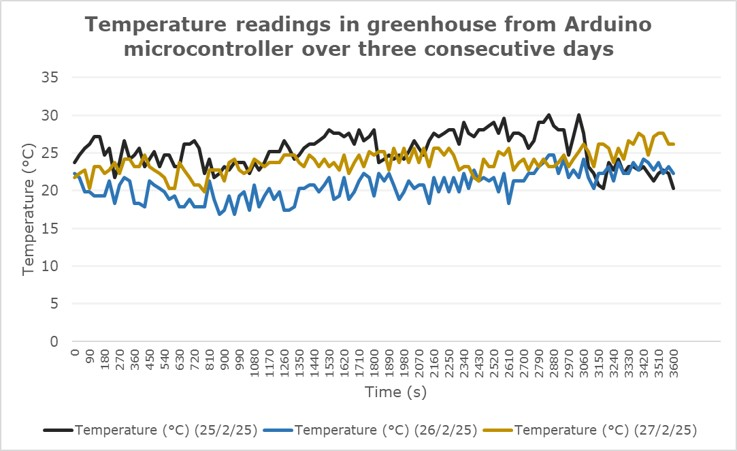
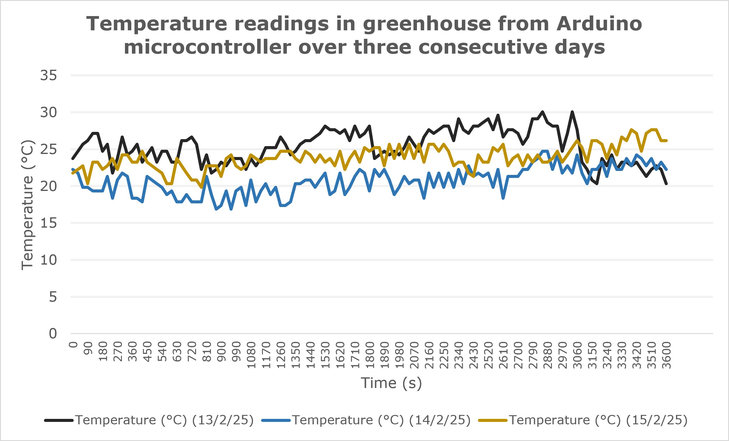
Revised file information for tutorial

diff --git a/README.md b/README.md
@@ -208,7 +208,7 @@ Try it yourself with a raw reading of 153:
 
 ## Look closely at the data
 
-Open `data/arduino_readings_2025-02-26.csv`. Look at the temperature column. The values do not change smoothly: neighbouring values are always about 0.49 °C apart, for example 17.38, 17.87 and 18.36.
+Open `data/arduino_readings_2025-02-14.csv`. Look at the temperature column. The values do not change smoothly: neighbouring values are always about 0.49 °C apart, for example 17.38, 17.87 and 18.36.
 
 Why? One ADC step is about 4.9 mV, and the sensor gives 10 mV per degree, so one step is about 0.49 °C. The Arduino cannot see anything smaller than that. This is called the **resolution** of a measurement, and it is one reason why a sensor's readings can look jumpy.
 
@@ -216,7 +216,7 @@ Why? One ADC step is about 4.9 mV, and the sensor gives 10 mV per degree, so one
 
 ### Study design
 
-Data was collected from a greenhouse at the Rosemount Environmental Institute, UCD, Dublin, Ireland. The Arduino was placed on a table in a partially shaded area, away from direct sunlight, and recorded for one hour on each of three days (25, 26 and 27 February 2025) at 30 s intervals. The serial output was recorded on a laptop using the Python script in this repository.
+Data was collected from a greenhouse at the Rosemount Environmental Institute, UCD, Dublin, Ireland. The Arduino was placed on a table in a partially shaded area, away from direct sunlight, and recorded for one hour on each of three days (13, 14, and 15 February 2025) at 30 s intervals. The serial output was recorded on a laptop using the Python script in this repository.
 
   <p align="center">
     <img src="Images/fig2_device_setup_greenhouse.jpg" alt="Arduino temperature readings" width="600">
@@ -228,7 +228,7 @@ The Arduino readings were compared with data from sensors already installed in t
 
 ### Temperature results
 
-The highest temperature measured in the greenhouse was 30.1 °C on 25 February (clear and sunny day). The lowest was 16.8 °C on 26 February (overcast day). The temperature on 27 February was consistent.
+The highest temperature measured in the greenhouse was 30.1 °C on 13 February (clear and sunny day). The lowest was 16.8 °C on 14 February (overcast day). The temperature on 15 February was consistent.
 
 <p align="center">
     <img src="Images/fig3_arduino_temperature.jpg" alt="Arduino temperature readings" width="600">
@@ -244,11 +244,11 @@ The highest temperature measured in the greenhouse was 30.1 °C on 25 February (
 
 The Arduino temperature readings fluctuated more than those of the in-house sensor, which is a digital DHT-22 that is more accurate and better housed in the sensor console. The large fluctuations in the Arduino readings are also due to the breadboard heating up in sunlight and to cool breezes entering the greenhouse.
 
-Pearson’s correlation coefficient (r) for temperature readings was 0.43, 0.66, and 0.36 for 25th, 26th, and 27th February, respectively, indicating that the temperature readings from the two sensors were poorly correlated.
+Pearson’s correlation coefficient (r) for temperature readings was 0.43, 0.66, and 0.36 for 13th, 14th, and 15th February, respectively, indicating that the temperature readings from the two sensors were poorly correlated.
 
 ### Light results
 
-The light intensity readings were mostly stable on 25 and 27 February. On 26 February they fluctuated slightly because of overcast weather, which later gave way to partly cloudy conditions.
+The light intensity readings were mostly stable on 13 and 15 February. On 14 February they fluctuated slightly because of overcast weather, which later gave way to partly cloudy conditions.
 
 <p align="center">
     <img src="Images/fig5_arduino_light.jpg" alt="Arduino temperature readings" width="600">
@@ -292,14 +292,14 @@ Both suggested sensors are cheap and can be used with an Arduino, which would ma
 │   ├── log_arduino_data.py             Logs serial output to CSV
 │   └── requirements.txt
 ├── data/
-│   └── arduino_readings_2025-02-26.csv Arduino readings, 26 Feb 2025
+│   └── arduino_readings_2025-02-14.csv Arduino readings, 14 Feb 2025
 ├── Images/                             Figures used in this README
 └── README.md
 ```
 
 ## About the data
 
-`data/arduino_readings_2025-02-26.csv` contains the Arduino readings recorded on 26 February 2025, one of the three days in the study. The in-house sensor data and the other two days are not included in this repository.
+`data/arduino_readings_2025-02-14.csv` contains the Arduino readings recorded on 14 February 2025, one of the three days in the study. The in-house sensor data and the other two days are not included in this repository.
 
 ## References
 
